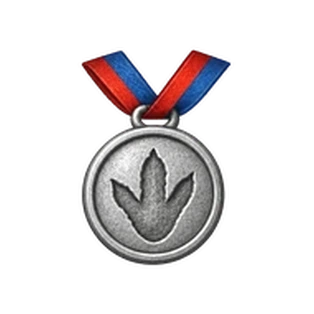
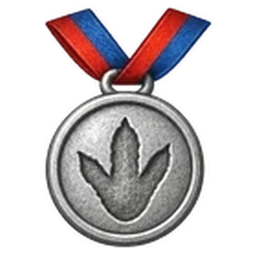
小物画像の透明な余白を詰めて、小さく表示しても見やすく
- メダル・きんのたまご・ストップウォッチ・ゴール旗・地図・開いた宝箱を256pxに切り詰め
- キャッシュのバージョンを更新

Claude-Session: https://claude.ai/code/session_017mowccw3kVppmiDYYFXnVD

diff --git a/sw.js b/sw.js
@@ -1,6 +1,6 @@
 // きょうりゅう けいさん Service Worker
 // 更新したら VERSION を上げる
-const VERSION = "v8-fossil-art";
+const VERSION = "v8b-fossil-art";
 const CACHE = "kyoryu-keisan-" + VERSION;
 const CORE = [
   "./",
